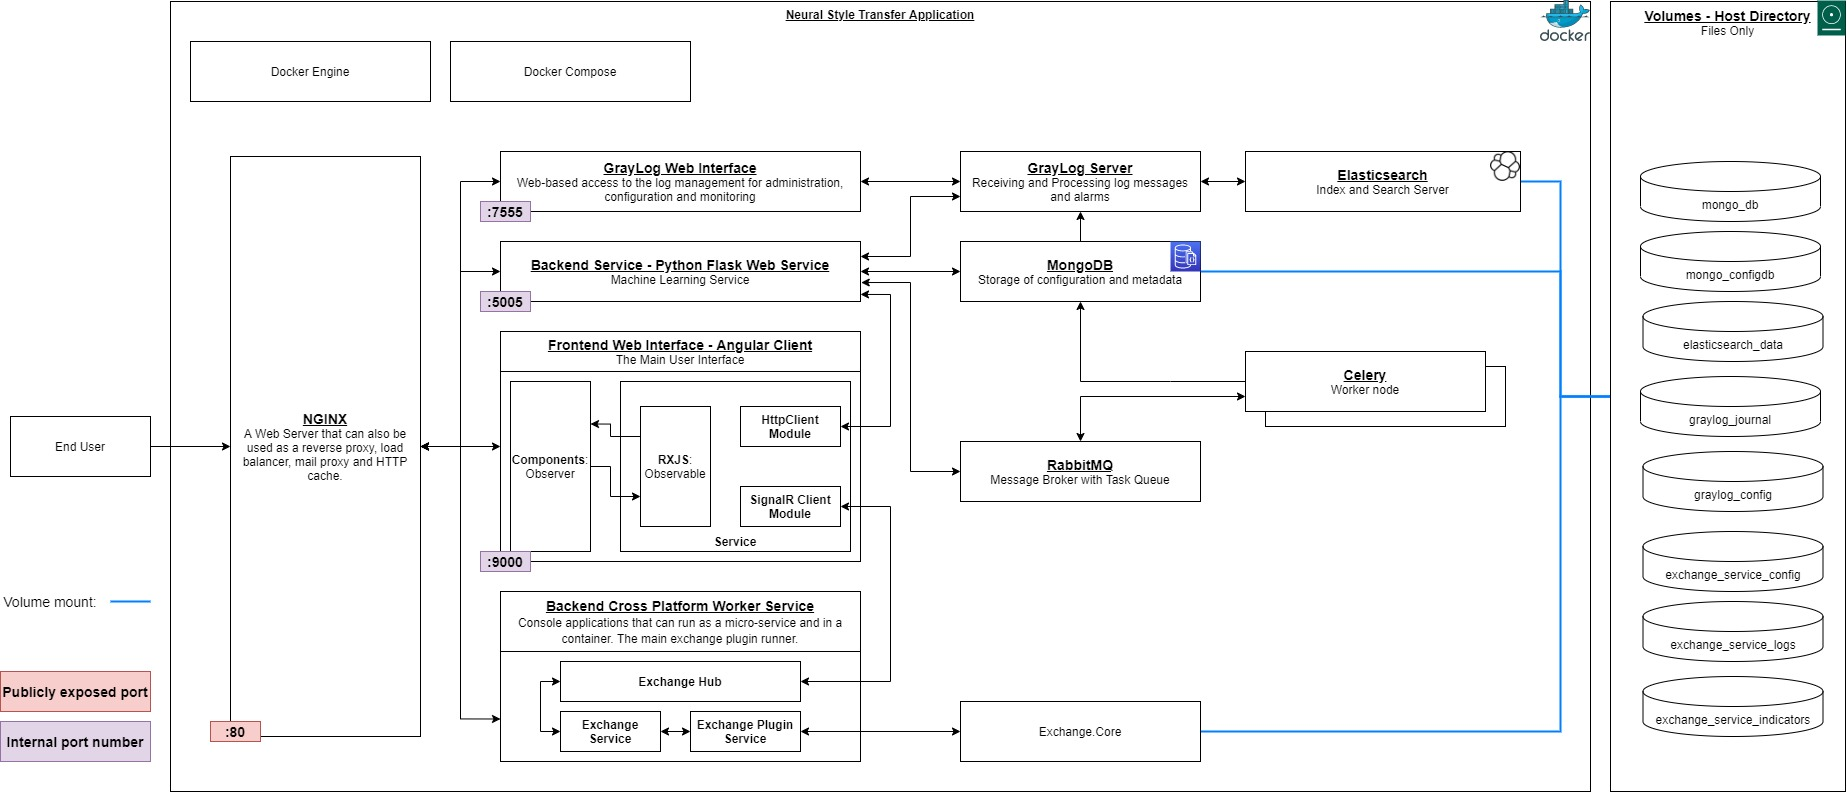
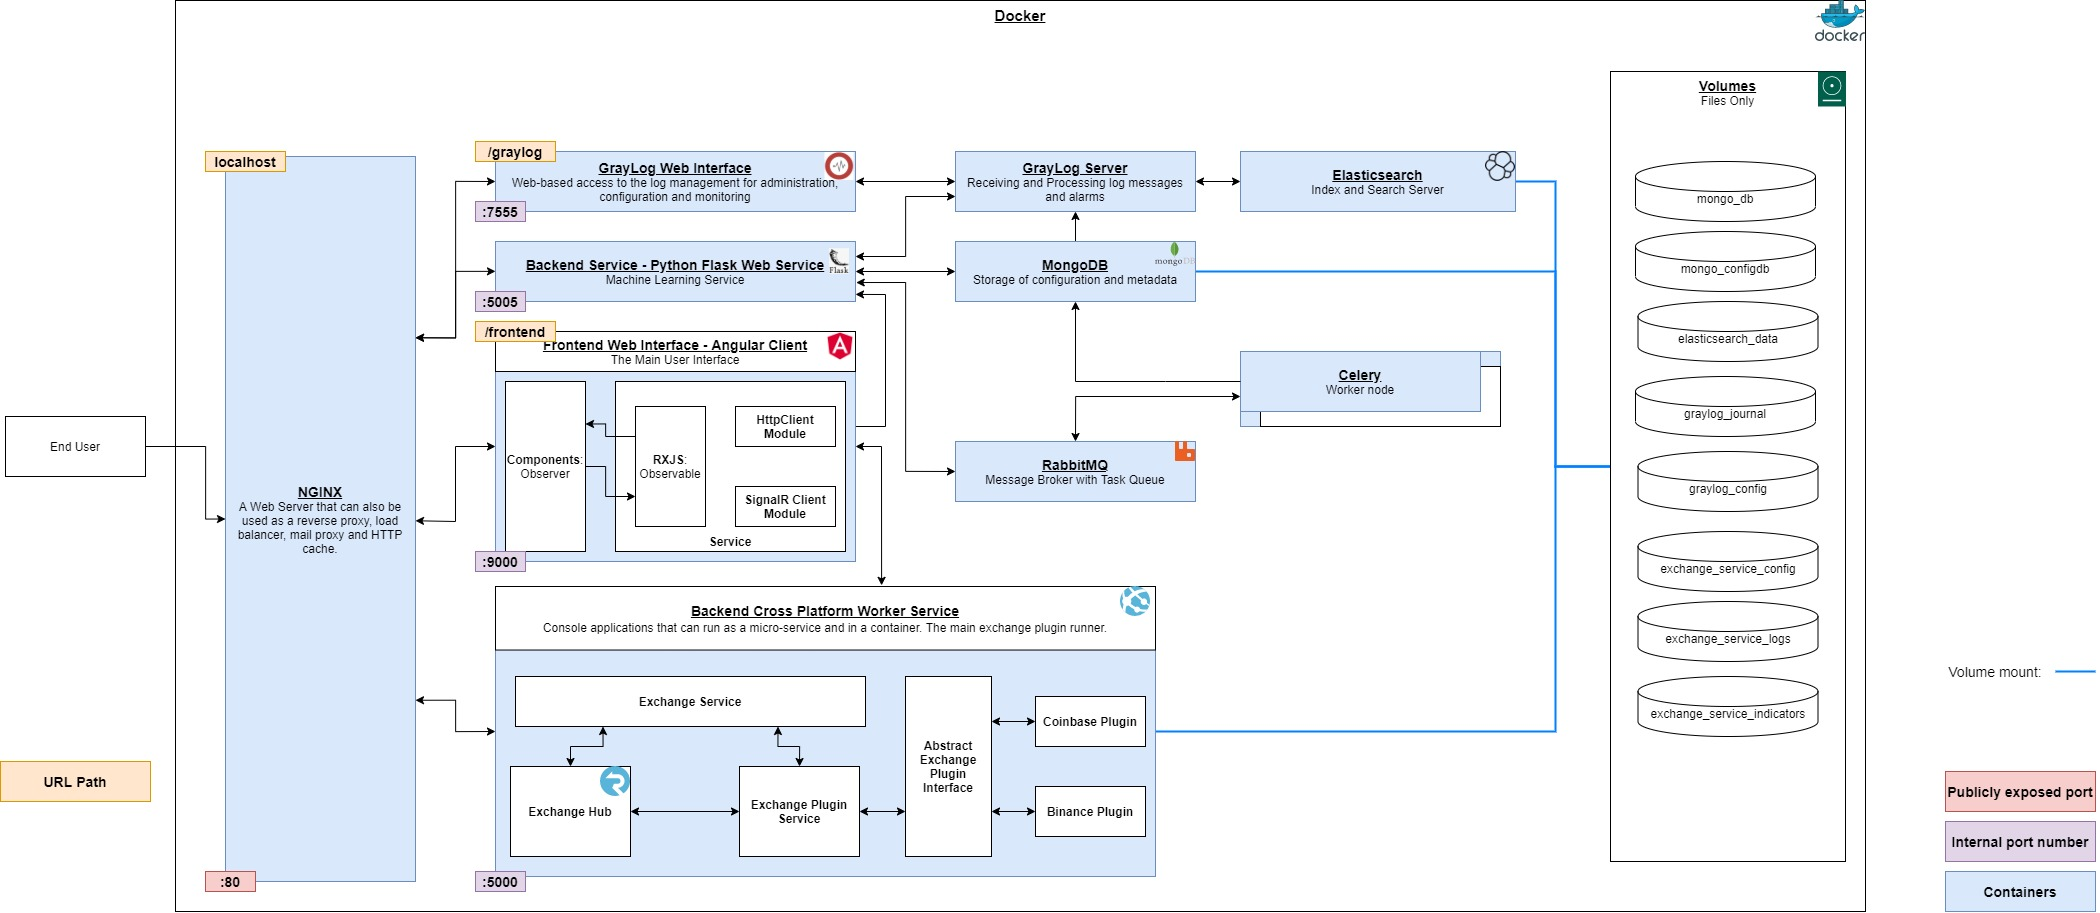
diagram update and travic yml for multiple CI tests

diff --git a/exchange.signalR.client.web.frontend/src/app/shared/modules/components/account-information-table/account-information-table.component.css b/exchange.signalR.client.web.frontend/src/app/shared/modules/components/account-information-table/account-information-table.component.css
@@ -2,10 +2,6 @@ table {
   width: 100%;
 }
 
-/* tr.example-detail-row {
-  height: 0 !important;
-} */
-
 tr.example-element-row:not(.example-expanded-row):hover {
   background: whitesmoke;
 }
@@ -17,31 +13,3 @@ tr.example-element-row:not(.example-expanded-row):active {
 .example-element-row td {
   border-bottom-width: 0;
 }
-
-/* .example-element-detail {
-  overflow: hidden;
-  display: flex;
-} */
-
-/* .example-element-diagram {
-  min-width: 80px;
-  border: 2px solid black;
-  padding: 8px;
-  font-weight: lighter;
-  margin: 8px 0;
-  height: 104px;
-} */
-
-/* .example-element-symbol {
-  font-weight: bold;
-  font-size: 40px;
-  line-height: normal;
-} */
-
-/* .example-element-description {
-  padding: 16px;
-} */
-
-/* .example-element-description-attribution {
-  opacity: 0.5;
-} */

diff --git a/exchange.signalR.client.web.frontend/src/app/shared/modules/components/notification/notification.component.spec.ts b/exchange.signalR.client.web.frontend/src/app/shared/modules/components/notification/notification.component.spec.ts
@@ -1,4 +1,4 @@
-import { TestBed, async, ComponentFixture } from '@angular/core/testing';
+import { TestBed, ComponentFixture, waitForAsync } from '@angular/core/testing';
 import { RouterTestingModule } from '@angular/router/testing';
 import { FormsModule } from '@angular/forms';
 import { CommonModule } from '@angular/common';
@@ -55,6 +55,6 @@ function confirmFixtureExists() {
  */
 describe('NotificationComponent', () => {
     //async will not allow the next test to start until the async finishes all its tasks.
-    beforeEach(async(setup));
+    beforeEach(waitForAsync(setup));
     it('should create', confirmFixtureExists);
 });

diff --git a/exchange.signalR.client.web.frontend/src/app/app.component.spec.ts b/exchange.signalR.client.web.frontend/src/app/app.component.spec.ts
@@ -1,4 +1,4 @@
-import { TestBed, async, ComponentFixture } from "@angular/core/testing";
+import { TestBed, ComponentFixture, waitForAsync } from "@angular/core/testing";
 import { AppComponent } from "./app.component";
 import { RouterTestingModule } from "@angular/router/testing";
 /**Fields declarations */
@@ -30,6 +30,6 @@ function componentToBeDefined() {
  */
 describe("AppComponent", () => {
     //async will not allow the next test to start until the async finishes all its tasks.
-    beforeEach(async(setup));
+    beforeEach(waitForAsync(setup));
     it("should create", componentToBeDefined);
 });
